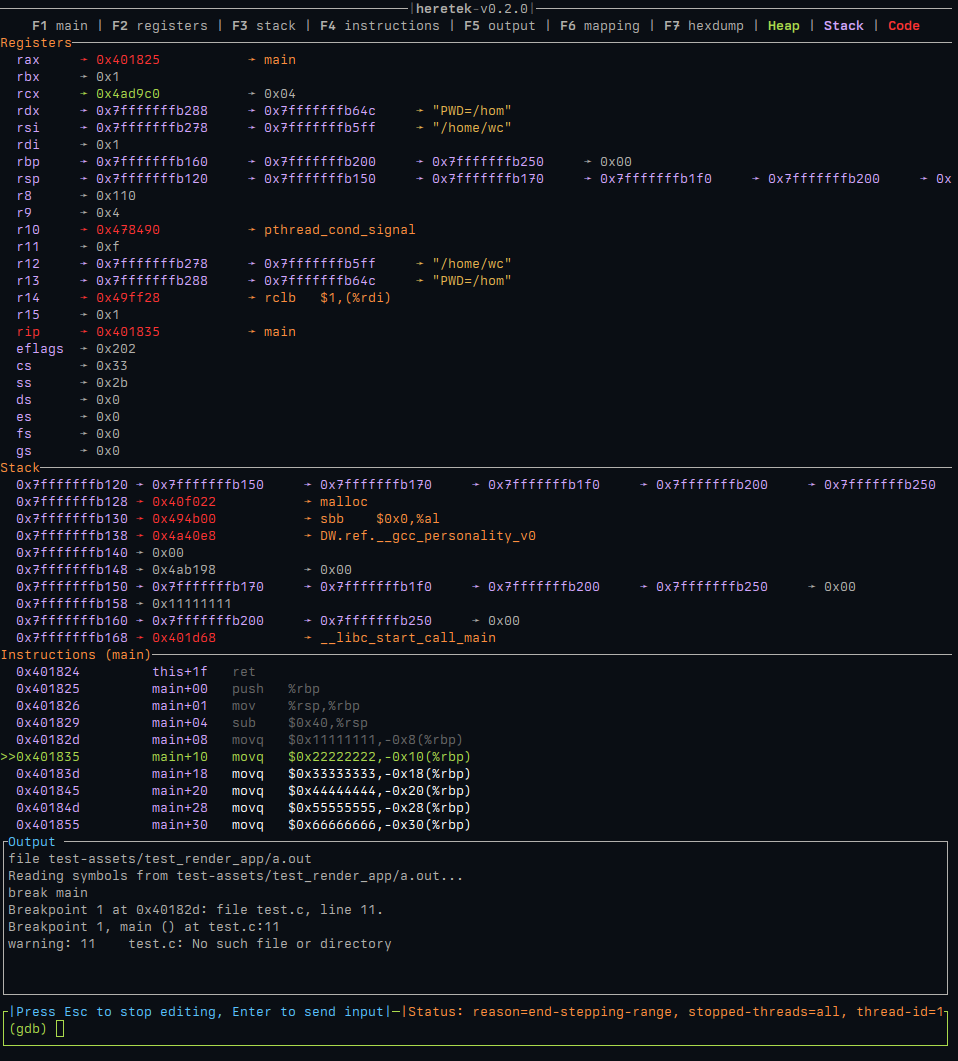
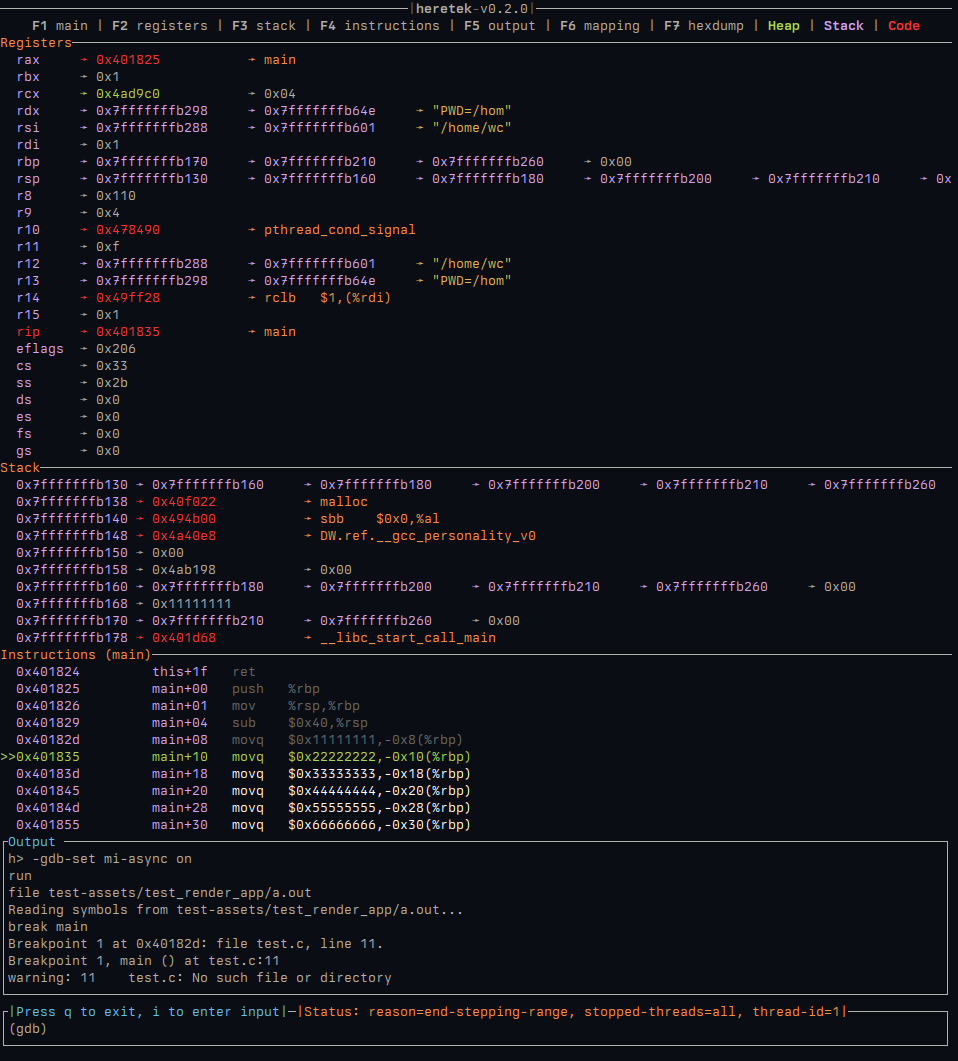
Add to output for overridden commands

diff --git a/src/main.rs b/src/main.rs
@@ -762,10 +762,13 @@ fn process_line(app: &mut App, val: &str) {
         // gdb::write_mi(&app.gdb_stdin, "-gdb-set target-async on");
 
         let cmd = "-gdb-set mi-async on";
+        let mut output_lock = app.output.lock().unwrap();
+        output_lock.push(format!("h> {cmd}"));
         gdb::write_mi(&app.gdb_stdin, cmd);
 
         let cmd = "-exec-run";
         gdb::write_mi(&app.gdb_stdin, cmd);
+        output_lock.push(val);
 
         app.input.reset();
         return;
@@ -779,18 +782,24 @@ fn process_line(app: &mut App, val: &str) {
     {
         let cmd = "-exec-continue";
         gdb::write_mi(&app.gdb_stdin, cmd);
+        let mut output_lock = app.output.lock().unwrap();
+        output_lock.push(val);
 
         app.input.reset();
         return;
     } else if val == "si" || val == "stepi" {
         let cmd = "-exec-step-instruction";
         gdb::write_mi(&app.gdb_stdin, cmd);
+        let mut output_lock = app.output.lock().unwrap();
+        output_lock.push(val);
 
         app.input.reset();
         return;
     } else if val == "step" {
         let cmd = "-exec-step";
         gdb::write_mi(&app.gdb_stdin, cmd);
+        let mut output_lock = app.output.lock().unwrap();
+        output_lock.push(val);
 
         app.input.reset();
         return;
